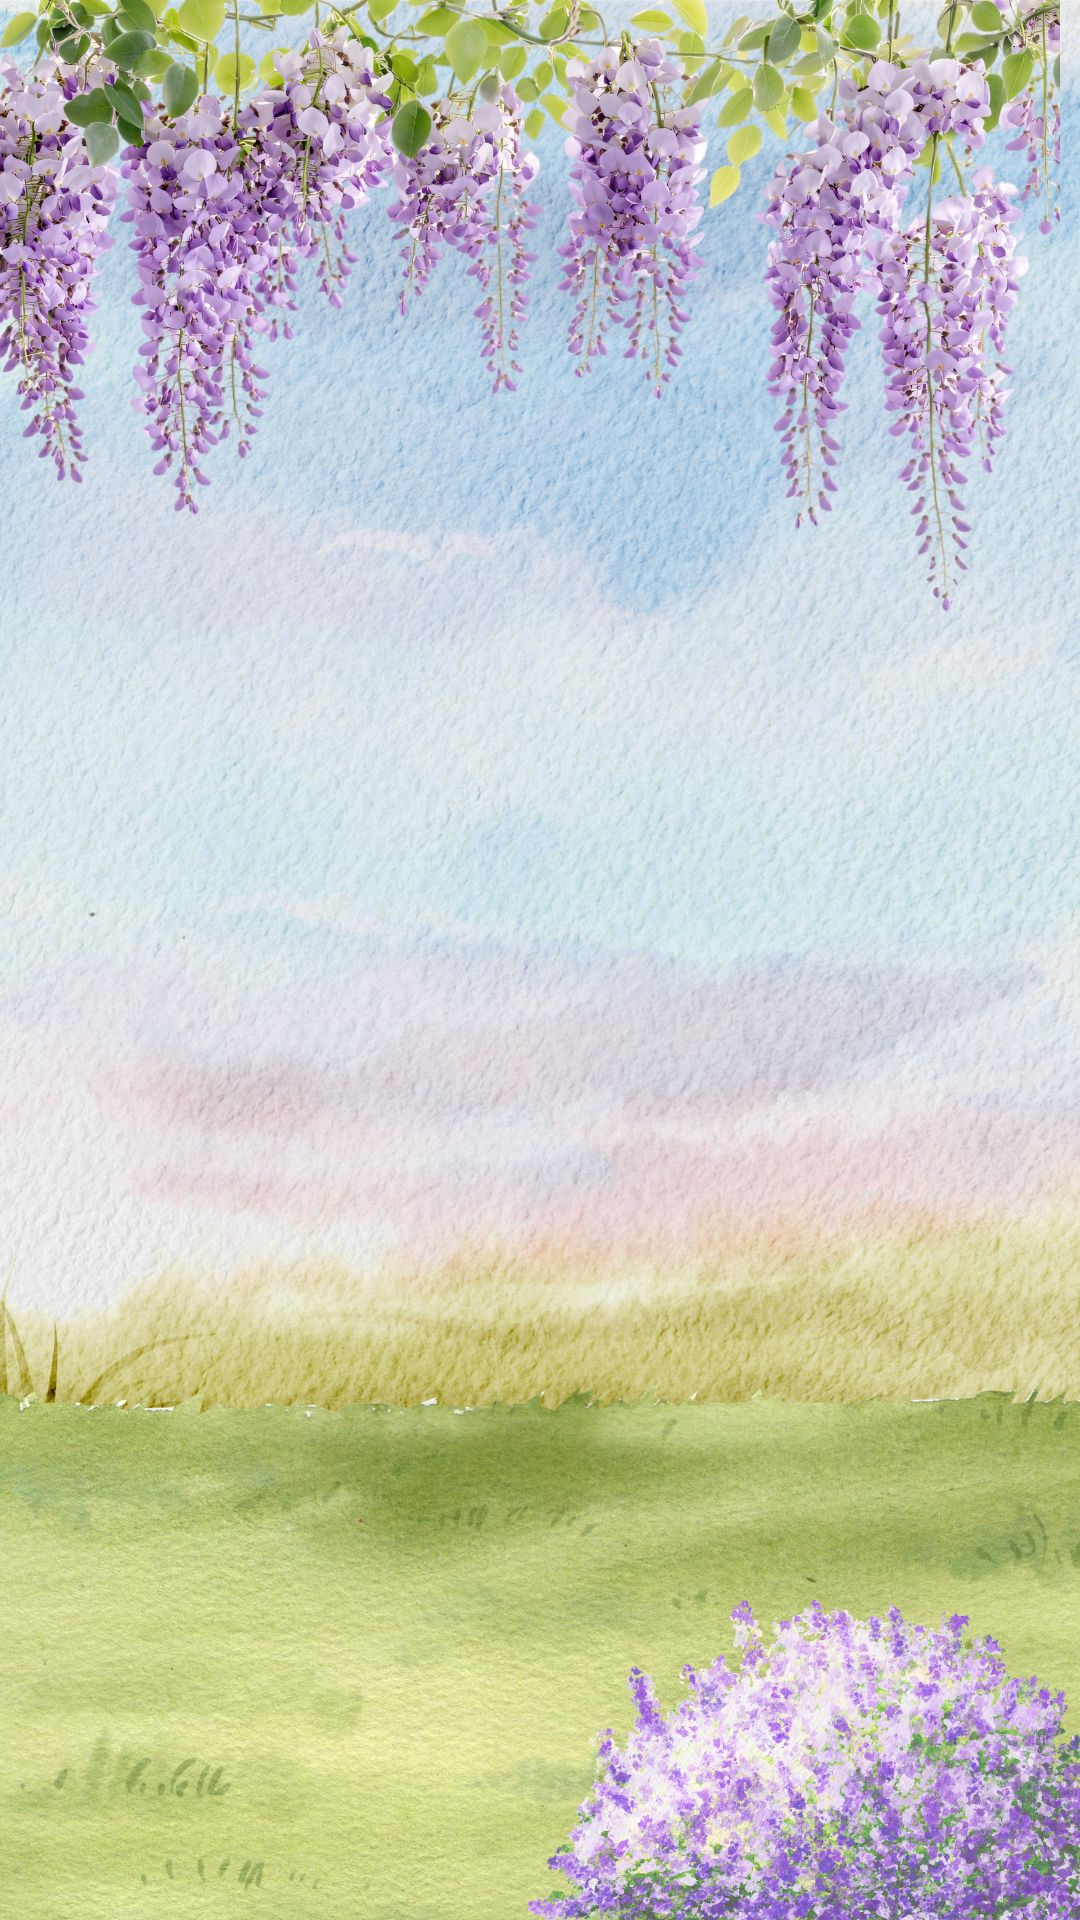
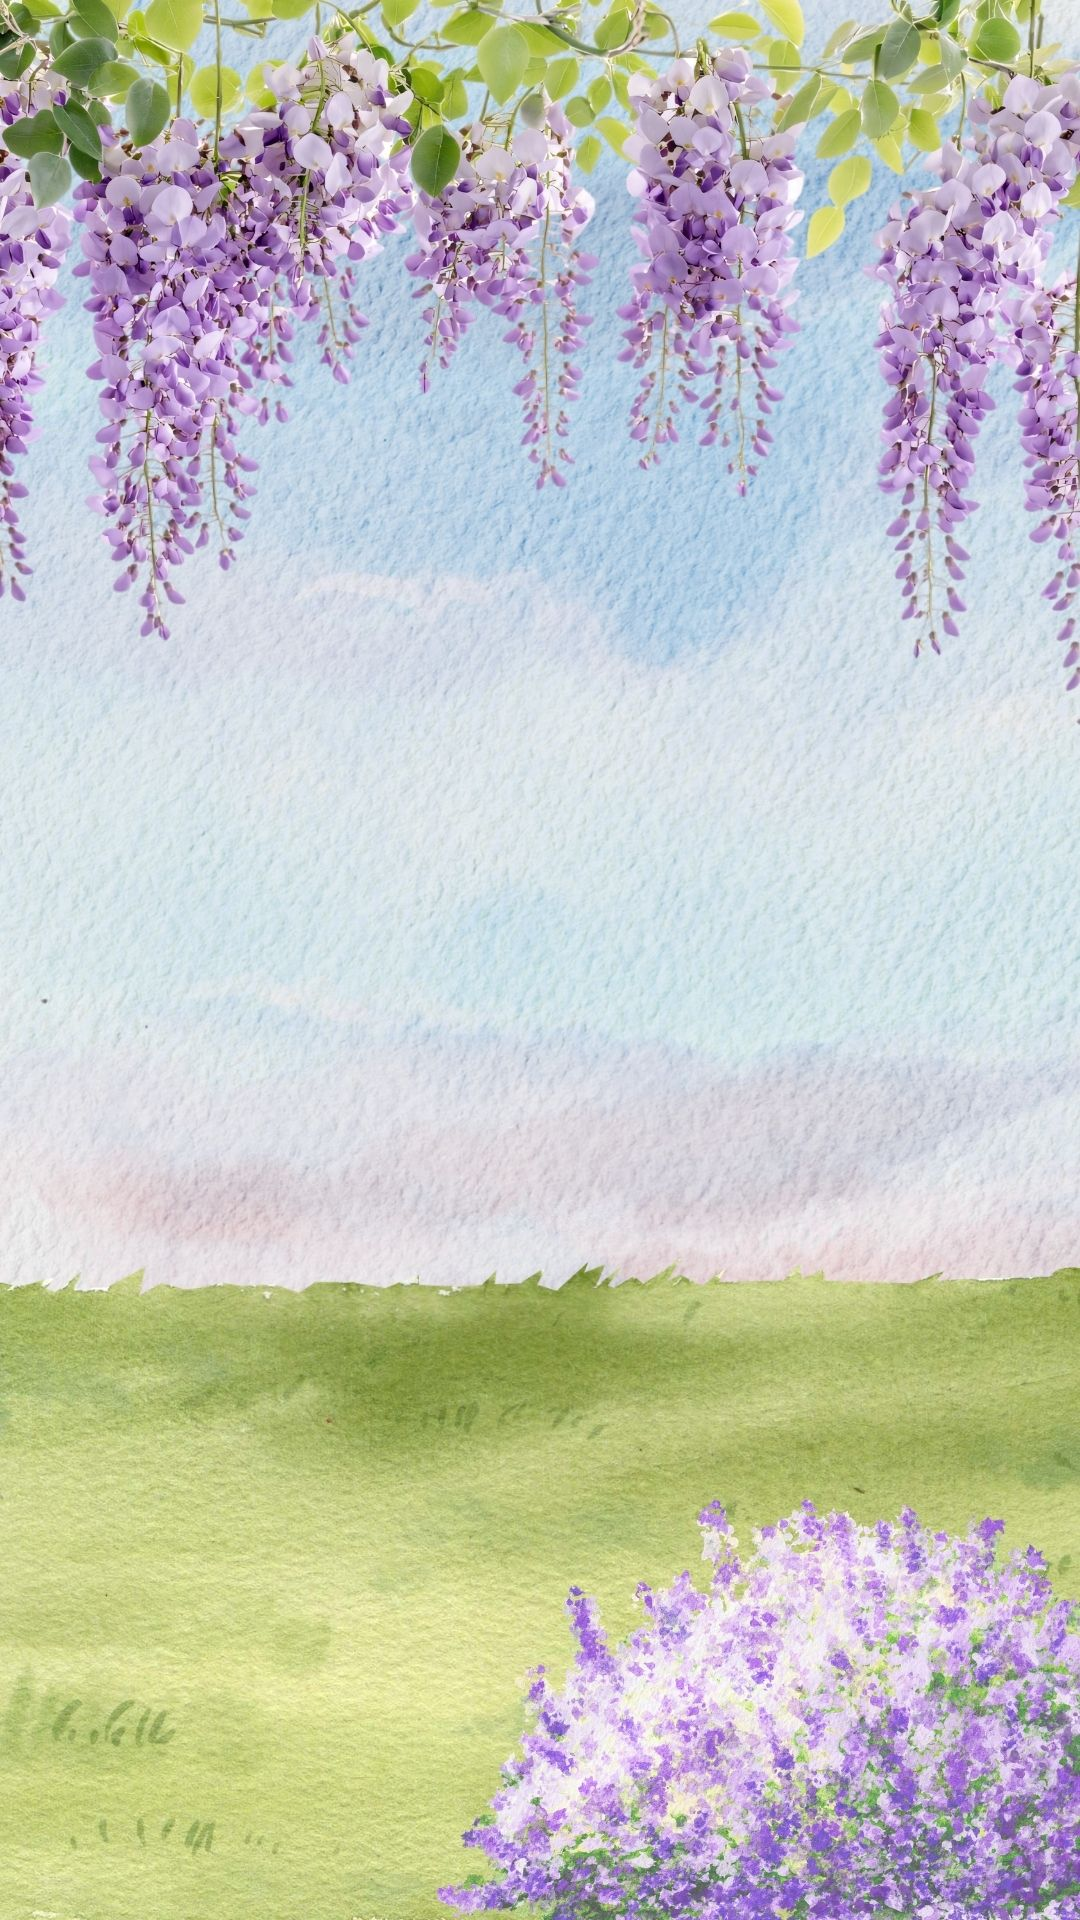
ganti gambar cover dan edit bagian rsvp

diff --git a/index.html b/index.html
@@ -305,9 +305,10 @@
         /* --- STYLING MADING UCAPAN BARU --- */
         #wishes-display { margin-top: 25px; text-align: left; max-height: 280px; overflow-y: auto; background: rgba(255,255,255,0.6); padding: 15px; border-radius: 8px; display: none; backdrop-filter: blur(5px); }
         .wish-item { background: white; padding: 12px; border-radius: 6px; margin-bottom: 10px; border-left: 4px solid var(--warna-aksen); box-shadow: 0 2px 8px rgba(0,0,0,0.02); }
-        .wish-name { font-family: 'Poppins', sans-serif; font-weight: 600; font-size: 0.85rem; color: #333; }
-        .wish-status { font-family: 'Poppins', sans-serif; font-size: 0.7rem; background: #e2f5e3; color: #27ae60; padding: 2px 8px; border-radius: 20px; margin-left: 6px; font-weight: bold; display: inline-block; }
-        .wish-status.tidak { background: #fce4e4; color: #c0392b; }
+        .wish-name { display: flex; align-items: center; font-family: 'Poppins', sans-serif; font-weight: 600; font-size: 0.85rem; color: #333; }
+        .wish-status { display: inline-flex; align-items: center; justify-content: center; width: 14px; height: 14px; border-radius: 50%; font-size: 0.6rem; margin-left: 6px; color: white; font-weight: bold; }
+        .wish-status.hadir { background-color: #27ae60; }
+        .wish-status.tidak { background-color: #e74c3c; }
         .wish-text { font-size: 0.9rem; margin-top: 6px; font-style: italic; line-height: 1.4; color: var(--warna-teks); }
 
         /* --- 12. CLOSING --- */